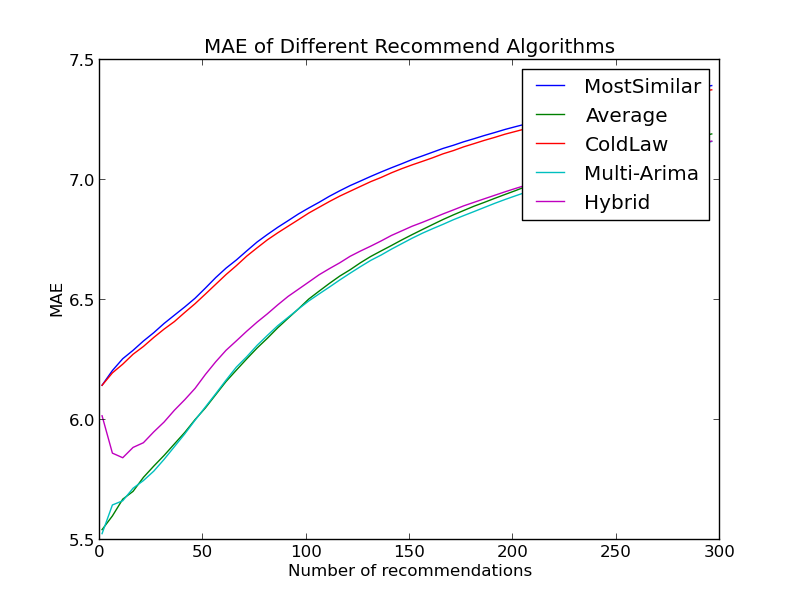
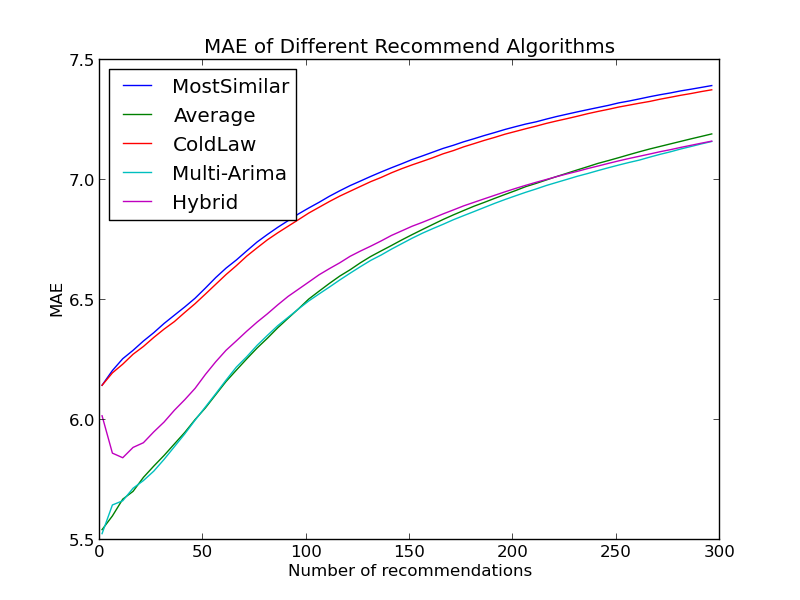
upper left mae

Changed region(s): [[0.125, 0.09, 0.375, 0.39], [0.625, 0.09, 0.9062, 0.36], [0.6562, 0.33, 0.875, 0.39]]

diff --git a/Python/experiment/src/test.py b/Python/experiment/src/test.py
@@ -338,7 +338,7 @@ def showStatistics():
   plt.title("MAE of Different Recommend Algorithms")
   plt.xlabel("Number of recommendations")
   plt.ylabel("MAE")
-  plt.legend()
+  plt.legend(loc="upper left")
   plt.savefig("../img/mae.png")
   #plt.show()
   plt.figure(5)
